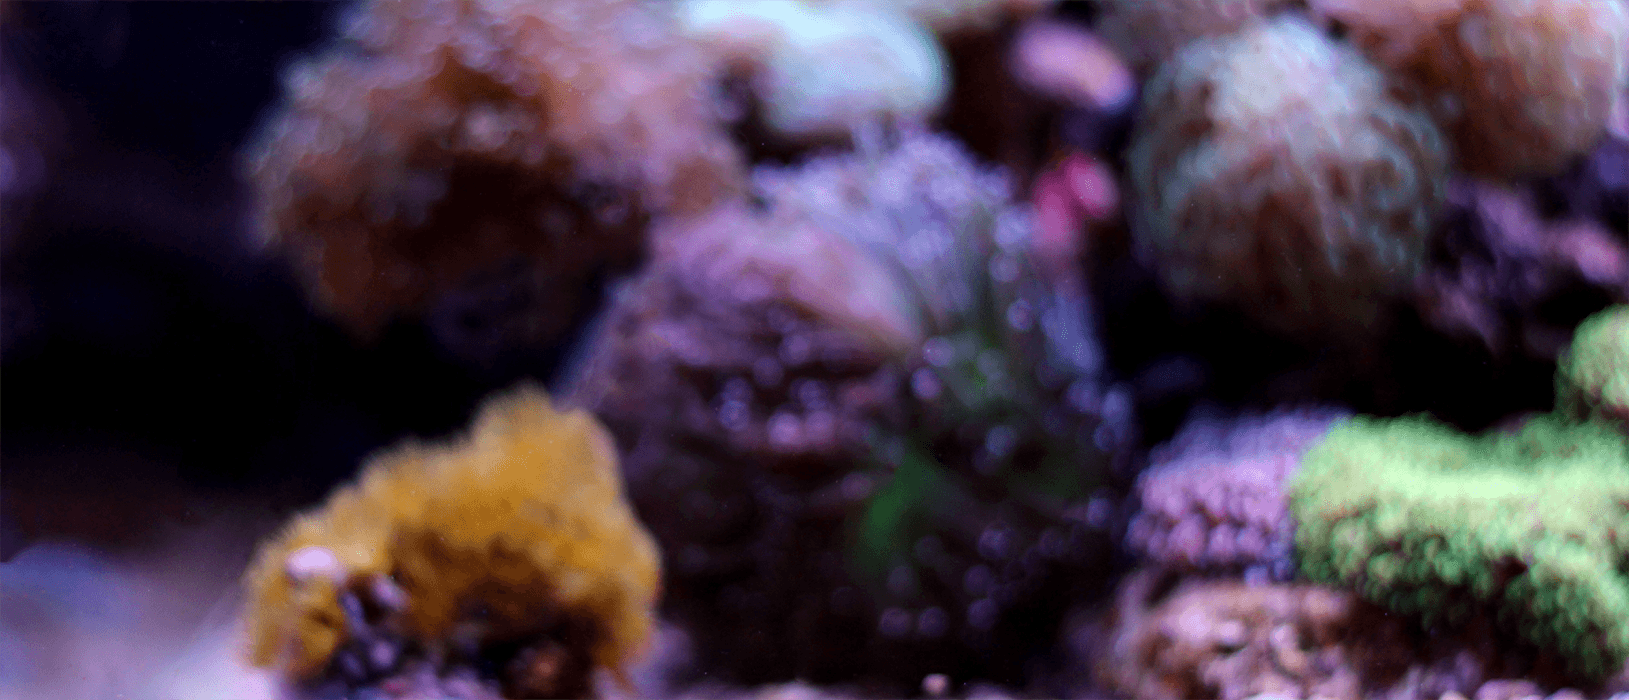
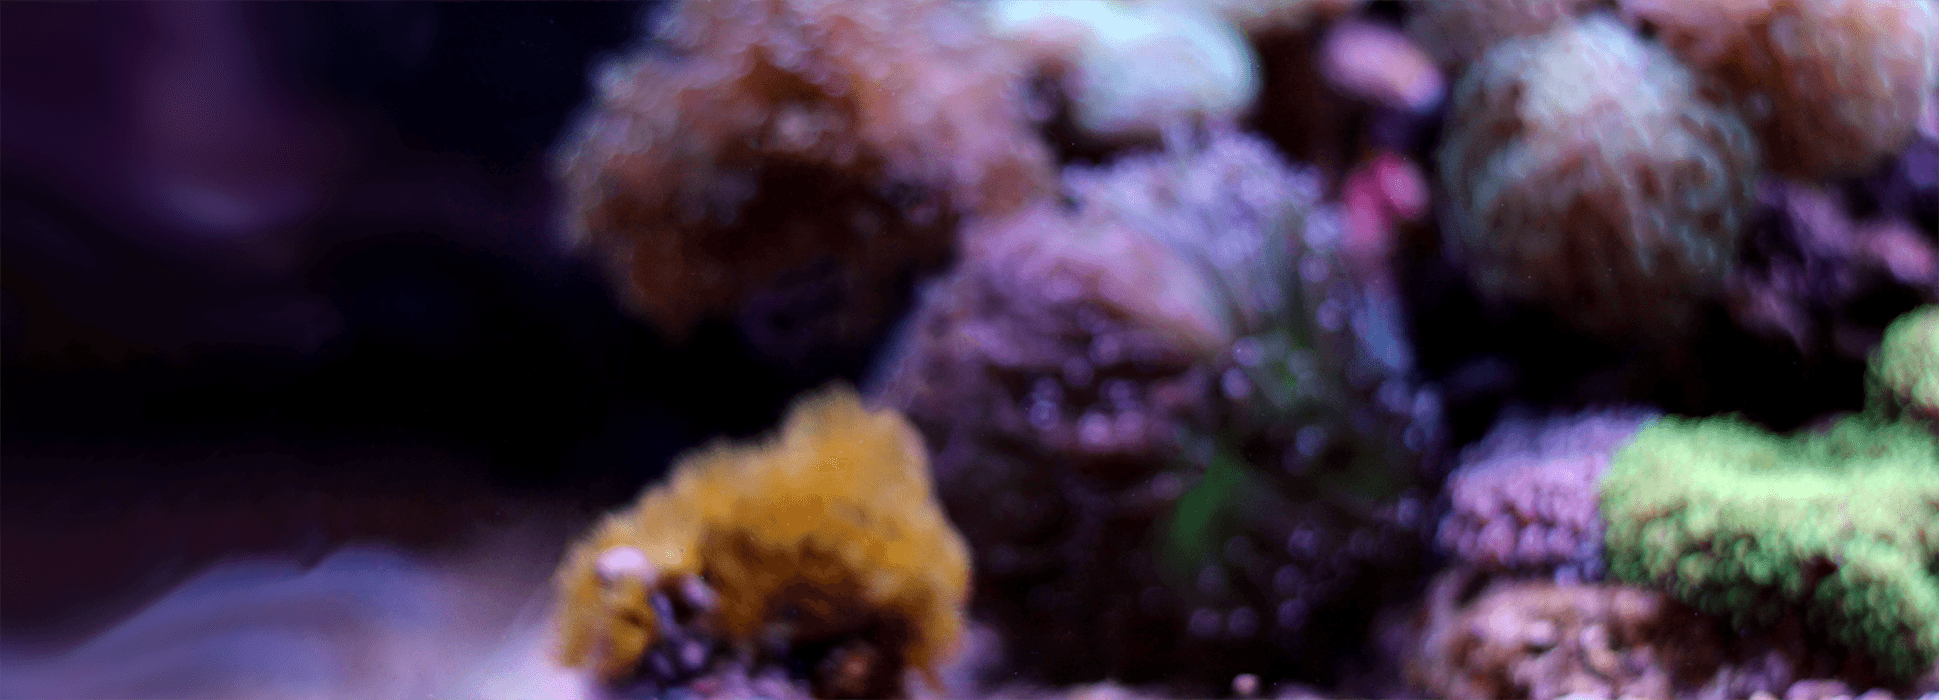
added backgrounds

diff --git a/frontend/src/components/pages/page1.jsx b/frontend/src/components/pages/page1.jsx
@@ -1,9 +1,6 @@
 import React from 'react'
 
 
-import bg1 from '../img/design/1.png'
-import bg2 from '../img/design/2.png'
-
 import intro from '../img/default.jpg'
 
 import designIntro from '../img/design/intro.png'
@@ -27,7 +24,16 @@ import vrLayer6 from '../img/Technology/vr-layer6.png'
 import arLayer1 from '../img/Technology/ar-layer1.png'
 import arLayer2 from '../img/Technology/ar-layer2.png'
 import arLayer3 from '../img/Technology/ar-layer3.png'
+import expTechLayer1 from '../img/Technology/exp-techs-layer1.jpg'
+import expTechLayer2 from '../img/Technology/exp-techs-layer2.jpg'
+import expTechLayer3 from '../img/Technology/exp-techs-layer3.jpg'
+import expTechLayer4 from '../img/Technology/exp-techs-layer4.jpg'
 
+import businessIntroLayer1 from '../img/business/business-intro-layer1.jpg'
+import businessIntroLayer2 from '../img/business/business-intro-layer2.jpg'
+import businessIntroLayer3 from '../img/business/business-intro-layer3.jpg'
+import servicesLayer1 from '../img/business/services-layer1.png'
+import servicesLayer2 from '../img/business/services-layer2.png'
 import philoLayer1 from '../img/business/philo-layer1.png'
 import disciplinesLayer6 from '../img/business/disciplines-layer1.png'
 import disciplinesLayer5 from '../img/business/disciplines-layer2.png'
@@ -53,10 +59,9 @@ const SiteIntro = [
     {
         h1: 'Dream Awake',
         h2: '',
-        content: () => 'Intro.',
+        content: () => 'We provide access to advanced technologies and advise on related markets.',
         path: '/',
         pid: introPid,
-        align: alignments.farLeft,
         linePosition: 0,
         layers: [
             {
@@ -122,7 +127,7 @@ const Design = [
     {
         h1: 'Design',
         h2: '',
-        content: () => 'To maximize our benefit from these new virtual tools, we must build XR on these foundational elements: a /story/, a /world/, and an /interface/.',
+        content: () => <span>To maximize our benefit from these new virtual tools, we must build XR on these foundational elements: a <em>story</em>, a <em>world</em>, and an <em>interface</em>.</span>,
         path: '/design',
         pid: designPid,
         layers: [
@@ -138,7 +143,7 @@ const Design = [
         h2: '',
         path: '/design',
         pid: designPid,
-        content: () => 'You play an important role in designing /tomorrow/. Together we will build your story, architect your world and design intuitive interactions with everything you develop.',
+        content: () => <span>You play an important role in designing <em>tomorrow</em>. Together we will build your story, architect your world and design intuitive interactions with everything you develop.</span>,
         layers: [
             {
                 imgUrl: designIntro,
@@ -153,7 +158,6 @@ const Design = [
         content: () => <BigText>Join us in designing tomorrow.</BigText>,
         path: '/design',
         pid: designPid,
-        align: alignments.right,
         layers: [
             {
                 imgUrl: designIntro,
@@ -474,9 +478,19 @@ const Business = [
         pid: businessPid,
         layers: [
             {
-                imgUrl: bg1,
+                imgUrl: businessIntroLayer1,
                 paralax: 0,
                 opacity: 1,
+            },
+            {
+                imgUrl: businessIntroLayer2,
+                paralax: 0,
+                opacity: 0,
+            },
+            {
+                imgUrl: businessIntroLayer3,
+                paralax: 0,
+                opacity: 0,
             },
         ]
     },
@@ -488,9 +502,19 @@ const Business = [
         pid: businessPid,
         layers: [
             {
-                imgUrl: bg1,
+                imgUrl: businessIntroLayer1,
+                paralax: 0,
+                opacity: 0,
+            },
+            {
+                imgUrl: businessIntroLayer2,
                 paralax: 0,
                 opacity: 1,
+            },
+            {
+                imgUrl: businessIntroLayer3,
+                paralax: 0,
+                opacity: 0,
             },
         ]
     },
@@ -502,7 +526,17 @@ const Business = [
         pid: businessPid,
         layers: [
             {
-                imgUrl: bg1,
+                imgUrl: businessIntroLayer1,
+                paralax: 0,
+                opacity: 0,
+            },
+            {
+                imgUrl: businessIntroLayer2,
+                paralax: 0,
+                opacity: 0,
+            },
+            {
+                imgUrl: businessIntroLayer3,
                 paralax: 0,
                 opacity: 1,
             },
@@ -520,9 +554,14 @@ const Services = [
         pid: servicesPid,
         layers: [
             {
-                imgUrl: bg2,
+                imgUrl: servicesLayer1,
                 paralax: 0,
                 opacity: 1,
+            },
+            {
+                imgUrl: servicesLayer2,
+                paralax: 0,
+                opacity: 0,
             },
         ]
     },
@@ -534,7 +573,12 @@ const Services = [
         pid: servicesPid,
         layers: [
             {
-                imgUrl: bg2,
+                imgUrl: servicesLayer1,
+                paralax: 0,
+                opacity: 1,
+            },
+            {
+                imgUrl: servicesLayer2,
                 paralax: 0,
                 opacity: 1,
             },
@@ -567,7 +611,7 @@ const Philosophy = [
         layers: [
             {
                 imgUrl: philoLayer1,
-                paralax: 0,
+                paralax: -50,
                 opacity: 1,
             },
         ]
@@ -581,7 +625,7 @@ const Philosophy = [
         layers: [
             {
                 imgUrl: philoLayer1,
-                paralax: 0,
+                paralax: -100,
                 opacity: 1,
             },
         ]
@@ -595,7 +639,7 @@ const Philosophy = [
         layers: [
             {
                 imgUrl: philoLayer1,
-                paralax: 0,
+                paralax: -150,
                 opacity: 1,
             },
         ]
@@ -609,7 +653,7 @@ const Philosophy = [
         layers: [
             {
                 imgUrl: philoLayer1,
-                paralax: 0,
+                paralax: -200,
                 opacity: 1,
             },
         ]
@@ -1294,9 +1338,24 @@ const expTech = [
         pid: expPid,
         layers: [
             {
-                imgUrl: bg1,
+                imgUrl: expTechLayer1,
                 paralax: 0,
                 opacity: 1,
+            },
+            {
+                imgUrl: expTechLayer2,
+                paralax: 0,
+                opacity: 0,
+            },
+            {
+                imgUrl: expTechLayer3,
+                paralax: 0,
+                opacity: 0,
+            },
+            {
+                imgUrl: expTechLayer4,
+                paralax: 0,
+                opacity: 0,
             },
         ],
     },
@@ -1308,9 +1367,24 @@ const expTech = [
         pid: expPid,
         layers: [
             {
-                imgUrl: bg1,
+                imgUrl: expTechLayer1,
+                paralax: 0,
+                opacity: 0,
+            },
+            {
+                imgUrl: expTechLayer2,
                 paralax: 0,
                 opacity: 1,
+            },
+            {
+                imgUrl: expTechLayer3,
+                paralax: 0,
+                opacity: 0,
+            },
+            {
+                imgUrl: expTechLayer4,
+                paralax: 0,
+                opacity: 0,
             },
         ],
     },
@@ -1322,9 +1396,24 @@ const expTech = [
         pid: expPid,
         layers: [
             {
-                imgUrl: bg1,
+                imgUrl: expTechLayer1,
+                paralax: 0,
+                opacity: 0,
+            },
+            {
+                imgUrl: expTechLayer2,
+                paralax: 0,
+                opacity: 0,
+            },
+            {
+                imgUrl: expTechLayer3,
                 paralax: 0,
                 opacity: 1,
+            },
+            {
+                imgUrl: expTechLayer4,
+                paralax: 0,
+                opacity: 0,
             },
         ],
     },
@@ -1336,7 +1425,22 @@ const expTech = [
         pid: expPid,
         layers: [
             {
-                imgUrl: bg1,
+                imgUrl: expTechLayer1,
+                paralax: 0,
+                opacity: 0,
+            },
+            {
+                imgUrl: expTechLayer2,
+                paralax: 0,
+                opacity: 0,
+            },
+            {
+                imgUrl: expTechLayer3,
+                paralax: 0,
+                opacity: 0,
+            },
+            {
+                imgUrl: expTechLayer4,
                 paralax: 0,
                 opacity: 1,
             },

diff --git a/frontend/public/index.html b/frontend/public/index.html
@@ -1,8 +1,8 @@
 <!doctype html>
 <html lang="en">
-  <head>
-    <meta charset="utf-8">
-    <meta name="viewport" content="width=device-width, initial-scale=1, shrink-to-fit=no">
+    <head>
+        <meta charset="utf-8">
+        <meta name="viewport" content="width=device-width, initial-scale=1, shrink-to-fit=yes">
     <meta name="theme-color" content="#000000">
     <!--
       manifest.json provides metadata used when your web app is added to the
